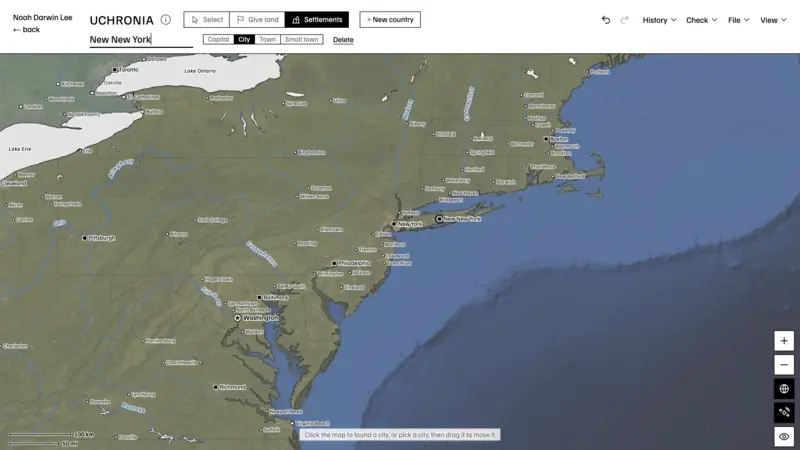
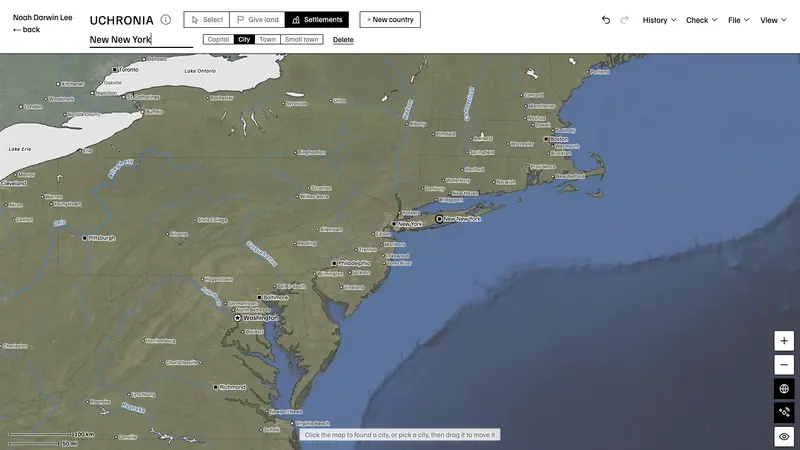
Portfolio: sharper UCHRONIA screenshots on high-density screens
The carousel is up to 1200 px wide, so a 2x screen wanted 2400 px and was
getting the 1600 px copy stretched. Each shot now also comes as a 2400 px
WebP, cut from the originals, and every size is saved at quality 90 so the
small map lettering stays crisp.

Claude-Session: https://claude.ai/code/session_01C2UPi9pTmSraAjvPPfenpk

Changed region(s): [[0.3125, 0.6844, 0.3438, 0.7156], [0.125, 0.0311, 0.1562, 0.0622]]

diff --git a/portfolio/uchronia/index.html b/portfolio/uchronia/index.html
@@ -29,11 +29,11 @@
         <div class="frame">
           <div class="frame-bar"><span class="dots" aria-hidden="true"><i></i><i></i><i></i></span><span aria-hidden="true">noahdarwinlee.com/uchronia</span><span class="count" aria-live="polite">1 / 5</span></div>
           <div class="track" tabindex="0" aria-label="Screenshots; use the arrow keys to move between them">
-            <div class="slide" role="group" aria-roledescription="slide" aria-label="1 of 5" data-cap="An East African Federation, and the historian telling how it came to be"><img src="../../art/web/materials/shot-uchronia-1600.webp" srcset="../../art/web/materials/shot-uchronia-800.webp 800w, ../../art/web/materials/shot-uchronia-1600.webp 1600w" sizes="(max-width: 1200px) 100vw, 1200px" width="1600" height="900" alt="An East African Federation, and the historian telling how it came to be" fetchpriority="high" decoding="async" /></div>
-            <div class="slide" role="group" aria-roledescription="slide" aria-label="2 of 5" data-cap="Giving Peru’s San Martín to a greater Colombia"><img src="../../art/web/materials/shots/uchronia-2-1600.webp" srcset="../../art/web/materials/shots/uchronia-2-800.webp 800w, ../../art/web/materials/shots/uchronia-2-1600.webp 1600w" sizes="(max-width: 1200px) 100vw, 1200px" width="1600" height="900" alt="Giving Peru’s San Martín to a greater Colombia" loading="lazy" decoding="async" /></div>
-            <div class="slide" role="group" aria-roledescription="slide" aria-label="3 of 5" data-cap="Westralia, a Western Australia that left the Commonwealth in 1933"><img src="../../art/web/materials/shots/uchronia-3-1600.webp" srcset="../../art/web/materials/shots/uchronia-3-800.webp 800w, ../../art/web/materials/shots/uchronia-3-1600.webp 1600w" sizes="(max-width: 1200px) 100vw, 1200px" width="1600" height="900" alt="Westralia, a Western Australia that left the Commonwealth in 1933" loading="lazy" decoding="async" /></div>
-            <div class="slide" role="group" aria-roledescription="slide" aria-label="4 of 5" data-cap="Founding New New York on Long Island, over the satellite view"><img src="../../art/web/materials/shots/uchronia-4-1600.webp" srcset="../../art/web/materials/shots/uchronia-4-800.webp 800w, ../../art/web/materials/shots/uchronia-4-1600.webp 1600w" sizes="(max-width: 1200px) 100vw, 1200px" width="1600" height="900" alt="Founding New New York on Long Island, over the satellite view" loading="lazy" decoding="async" /></div>
-            <div class="slide" role="group" aria-roledescription="slide" aria-label="5 of 5" data-cap="A Tajikistan stretched across Central Asia, in the Dark style"><img src="../../art/web/materials/shots/uchronia-5-1600.webp" srcset="../../art/web/materials/shots/uchronia-5-800.webp 800w, ../../art/web/materials/shots/uchronia-5-1600.webp 1600w" sizes="(max-width: 1200px) 100vw, 1200px" width="1600" height="900" alt="A Tajikistan stretched across Central Asia, in the Dark style" loading="lazy" decoding="async" /></div>
+            <div class="slide" role="group" aria-roledescription="slide" aria-label="1 of 5" data-cap="An East African Federation, and the historian telling how it came to be"><img src="../../art/web/materials/shot-uchronia-1600.webp" srcset="../../art/web/materials/shot-uchronia-800.webp 800w, ../../art/web/materials/shot-uchronia-1600.webp 1600w, ../../art/web/materials/shot-uchronia-2400.webp 2400w" sizes="(max-width: 1200px) 100vw, 1200px" width="1600" height="900" alt="An East African Federation, and the historian telling how it came to be" fetchpriority="high" decoding="async" /></div>
+            <div class="slide" role="group" aria-roledescription="slide" aria-label="2 of 5" data-cap="Giving Peru’s San Martín to a greater Colombia"><img src="../../art/web/materials/shots/uchronia-2-1600.webp" srcset="../../art/web/materials/shots/uchronia-2-800.webp 800w, ../../art/web/materials/shots/uchronia-2-1600.webp 1600w, ../../art/web/materials/shots/uchronia-2-2400.webp 2400w" sizes="(max-width: 1200px) 100vw, 1200px" width="1600" height="900" alt="Giving Peru’s San Martín to a greater Colombia" loading="lazy" decoding="async" /></div>
+            <div class="slide" role="group" aria-roledescription="slide" aria-label="3 of 5" data-cap="Westralia, a Western Australia that left the Commonwealth in 1933"><img src="../../art/web/materials/shots/uchronia-3-1600.webp" srcset="../../art/web/materials/shots/uchronia-3-800.webp 800w, ../../art/web/materials/shots/uchronia-3-1600.webp 1600w, ../../art/web/materials/shots/uchronia-3-2400.webp 2400w" sizes="(max-width: 1200px) 100vw, 1200px" width="1600" height="900" alt="Westralia, a Western Australia that left the Commonwealth in 1933" loading="lazy" decoding="async" /></div>
+            <div class="slide" role="group" aria-roledescription="slide" aria-label="4 of 5" data-cap="Founding New New York on Long Island, over the satellite view"><img src="../../art/web/materials/shots/uchronia-4-1600.webp" srcset="../../art/web/materials/shots/uchronia-4-800.webp 800w, ../../art/web/materials/shots/uchronia-4-1600.webp 1600w, ../../art/web/materials/shots/uchronia-4-2400.webp 2400w" sizes="(max-width: 1200px) 100vw, 1200px" width="1600" height="900" alt="Founding New New York on Long Island, over the satellite view" loading="lazy" decoding="async" /></div>
+            <div class="slide" role="group" aria-roledescription="slide" aria-label="5 of 5" data-cap="A Tajikistan stretched across Central Asia, in the Dark style"><img src="../../art/web/materials/shots/uchronia-5-1600.webp" srcset="../../art/web/materials/shots/uchronia-5-800.webp 800w, ../../art/web/materials/shots/uchronia-5-1600.webp 1600w, ../../art/web/materials/shots/uchronia-5-2400.webp 2400w" sizes="(max-width: 1200px) 100vw, 1200px" width="1600" height="900" alt="A Tajikistan stretched across Central Asia, in the Dark style" loading="lazy" decoding="async" /></div>
           </div>
         </div>
         <div class="shots-foot">

diff --git a/portfolio/index.html b/portfolio/index.html
@@ -818,7 +818,7 @@
           </article>
 
           <article class="card" data-href="uchronia/" id="uchronia" style="--brand: #7a5230; --o: 12; --om: 35">
-            <figure class="shot"><img src="../art/web/materials/shot-uchronia-800.webp" srcset="../art/web/materials/shot-uchronia-800.webp 800w, ../art/web/materials/shot-uchronia-1600.webp 1600w" sizes="(max-width: 760px) 100vw, 50vw" width="800" height="450" alt="UCHRONIA’s Antique map of an East African Federation, with the historian’s account beside it" loading="lazy" decoding="async" /></figure>
+            <figure class="shot"><img src="../art/web/materials/shot-uchronia-800.webp" srcset="../art/web/materials/shot-uchronia-800.webp 800w, ../art/web/materials/shot-uchronia-1600.webp 1600w, ../art/web/materials/shot-uchronia-2400.webp 2400w" sizes="(max-width: 760px) 100vw, 50vw" width="800" height="450" alt="UCHRONIA’s Antique map of an East African Federation, with the historian’s account beside it" loading="lazy" decoding="async" /></figure>
             <div class="card-head">
               <h3 class="c-name"><a href="https://noahdarwinlee.com/uchronia/" target="_blank" rel="noopener noreferrer">UCHRONIA</a></h3>
               <a class="go" href="https://noahdarwinlee.com/uchronia/" target="_blank" rel="noopener noreferrer" aria-label="Visit UCHRONIA">Visit <svg width="14" height="14" viewBox="0 0 14 14" aria-hidden="true"><path d="M3 11 11 3M5 3h6v6" fill="none" stroke="currentColor" stroke-width="1.6" /></svg></a>
